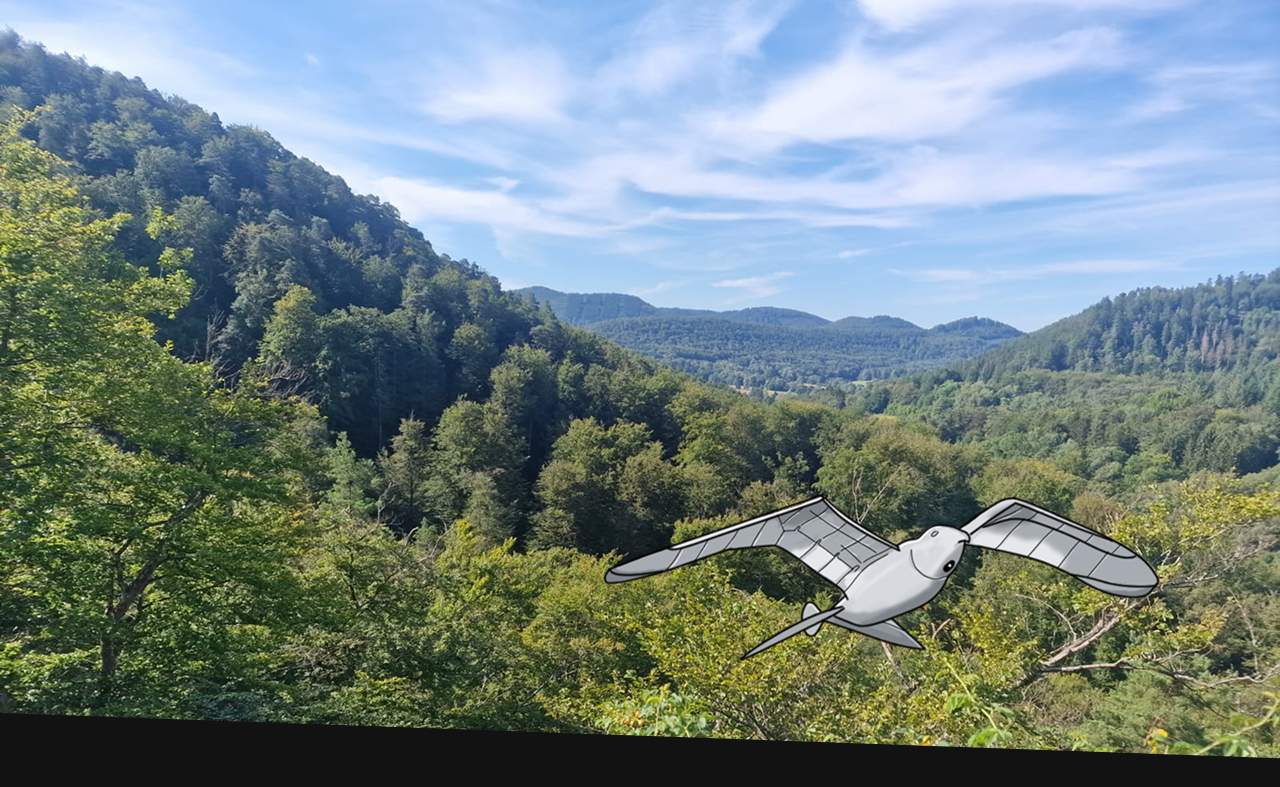
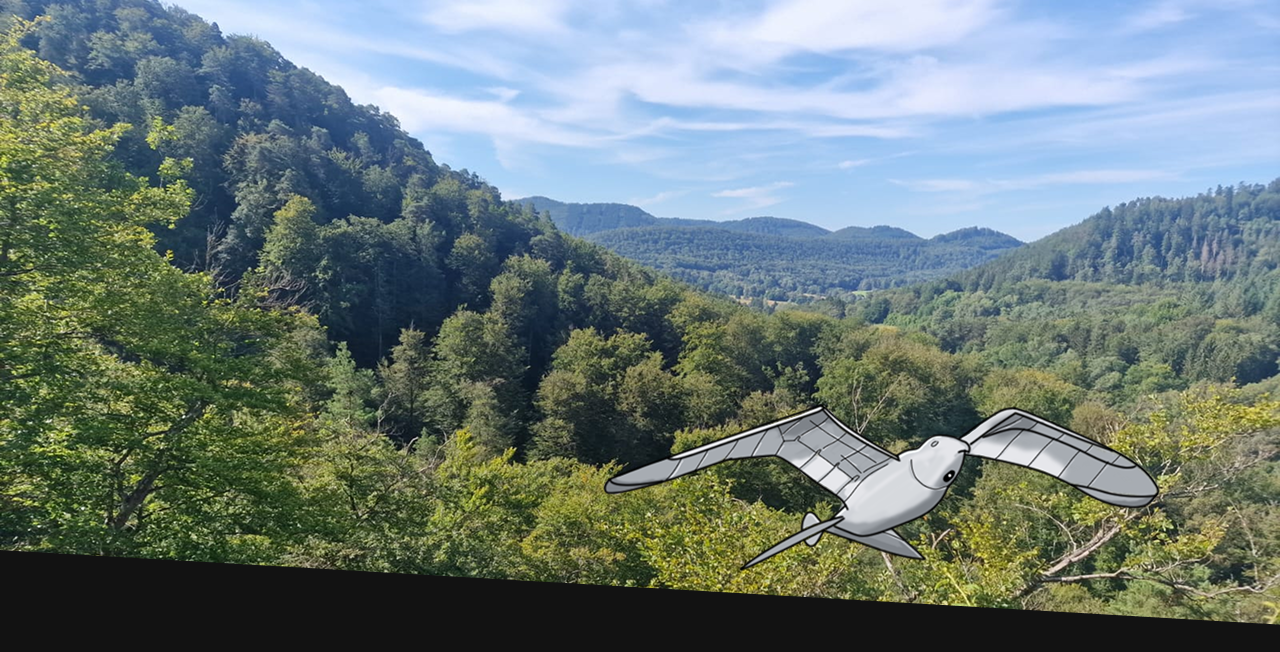
Organisation CSS

diff --git a/src/styles/app.scss b/src/styles/app.scss
@@ -8,6 +8,7 @@ body{
     background-color: #121212;
     box-sizing: border-box;	
     font-size: 16px;
+    color: #fafafa;
 }
 
 span{
@@ -34,6 +35,9 @@ p{
 
 .img--header{
     width: 100%;
+    margin: 0;
+    padding: 0;
+    font-size: 0;
 }
 
 .title{
@@ -48,7 +52,7 @@ p{
     color: #fafafa;
     position: absolute;
     font-family: 'Quantico', sans-serif;
-    margin-top: 30%;
+    margin-top: 23%;
     left: 50%;
     transform: translate(-50%, -50%);
 }
@@ -60,7 +64,7 @@ p{
     position: absolute;
     font-style: italic;
     font-weight: 600;
-    margin-top: 15%;
+    margin-top: 10%;
     left: 65%;
     transform: translate(-50%, -50%);
 }
@@ -91,13 +95,6 @@ p{
     margin-bottom: 23px;
 }
 
-.section--color1{
-    color: #fafafa;
-}
-
-.section--color2{
-    color: #d0d7d9;
-}
 
 .img--analyse{
     width: 50%;
@@ -114,11 +111,13 @@ p{
     font-size: 16px;
     border-radius: 25px;
     padding: 8px;
+    border: none;
+    transition: .3s;
 }
 
 .btn--temoins:hover{
-    background-color: #f4b942;
-    color: #0d0d0d;
+    background-color: #505050;
+    color: #f4b942;
 }
 
 
@@ -126,10 +125,10 @@ p{
 footer{
     display: grid; 
     column-gap: 16px;
-    background: linear-gradient(0.25turn, #56767e, #927b4d);
-    height: 300px;
+    background: linear-gradient(0.25turn, #567452, #7fb12e);
+    height: 320px;
     margin-top: 25px;
-    clip-path: polygon(0% 0%, 100% 5%, 100% 100%, 0% 100%);
+    clip-path: polygon(0% 0%, 100% 15%, 100% 100%, 0% 100%);
 }
 
 .footer__liste{
@@ -230,21 +229,6 @@ p{
 .section{
     margin-bottom: 78px;
 }
-.section--presentation{
-    margin-bottom: 0;
-}
-.img--pos{
-    grid-column: 2/-2;
-}
-.p--chiffre{
-    font-size: 199px;
-}
-.p--probleme{
-    margin-bottom: 0;
-}
-.problemes-container{
-    font-size: 20px;
-}
 
 .footer__liste{
     grid-column: 3/-2;
@@ -302,31 +286,16 @@ p{
     .p--col2col6{
         grid-column: 2/6;
     }
-    .img--contexte{
-        grid-column: 6/-1;
-        grid-row: 2/5;
-        margin-bottom: 0;
-    }
+
     .p--col3col6{
         grid-column: 3/-2;
     }
     .p--col3col7{
         grid-column: 3/-1;
     }
-    .img--analyse{
-        padding-top: 100px;
-        grid-column: 1/3;
-        grid-row: 2/6;
-        width: 100%;
-        margin: 0;
-    }
+
     .p--col4col8{
         grid-column: 4/-1;
-    }
-    .p--chiffre{
-        grid-column: 1/4;
-        z-index: 10;
-        grid-row: 6/-1;
     }
     
     .p--col1col5{
@@ -337,44 +306,11 @@ p{
         font-weight: 600;
     }
 
-    .img--repartition{
-        grid-column: 1/4;
-        margin: 0;
-        grid-row: 2/4;
+    .btn--temoins{
+        grid-column: 4/-1;  
+        font-size: 20px;
     }
-
-    .img--photo1{
-        grid-column: 6/-1;
-        grid-row: 2/4;
-    }
-    .img--photo2{
-        grid-column: 1/4;
-        grid-row: 4/5;
-        width: 100%;
-    }
-    .img--plan2d{
-        grid-column: 5/-1;
-        grid-row: 4/6;
-    }
-    .img--code{
-        grid-column: 5/-1;
-    }
-    .problemes-container{
-        grid-column: 2/-1;
-    }
-    .p--col2col8{
-        grid-column: 2/-1;
-        margin: 0;
-    }
-    .p--conclusion{
-        grid-column: 3/-2;
-    }
-    footer{
-        height: 350px;
-        margin: 0;
-        clip-path: polygon(0% 0%, 100% 15%, 100% 100%, 0% 100%);
-
-    }
+    
     .footer__liste{
         grid-row: 2/-1;
     }

diff --git a/src/index.html b/src/index.html
@@ -35,9 +35,13 @@
         
     </nav>
     <section class="section section--header">
-        <h1 class="title title--big">SkyGuard</h1>
-        <h2 class=" title title--italic">Mission</h2>
-        <img class="img--header" src="assets/images/header_photo.png" alt="">
+        <div class="div--title_img">
+            <h1 class="title title--big">SkyGuard</h1>
+            <h2 class=" title title--italic">Mission</h2>
+        </div>
+        <div class="div--img_header">
+            <img class="img--header" src="assets/images/header_photo.png" alt="">
+        </div>
     </section>
 </header>
 

diff --git a/src/scripts/app.js b/src/scripts/app.js
@@ -1,1 +1,10 @@
-console.info('Hello world');
+"use strict";
+
+
+let backToTopBtn = document.querySelector('.backToTop');
+
+function scrollToTop() {
+    window.scrollTo({ top: 0, behavior: "smooth" });
+}
+
+backToTopBtn.addEventListener("click", scrollToTop);
